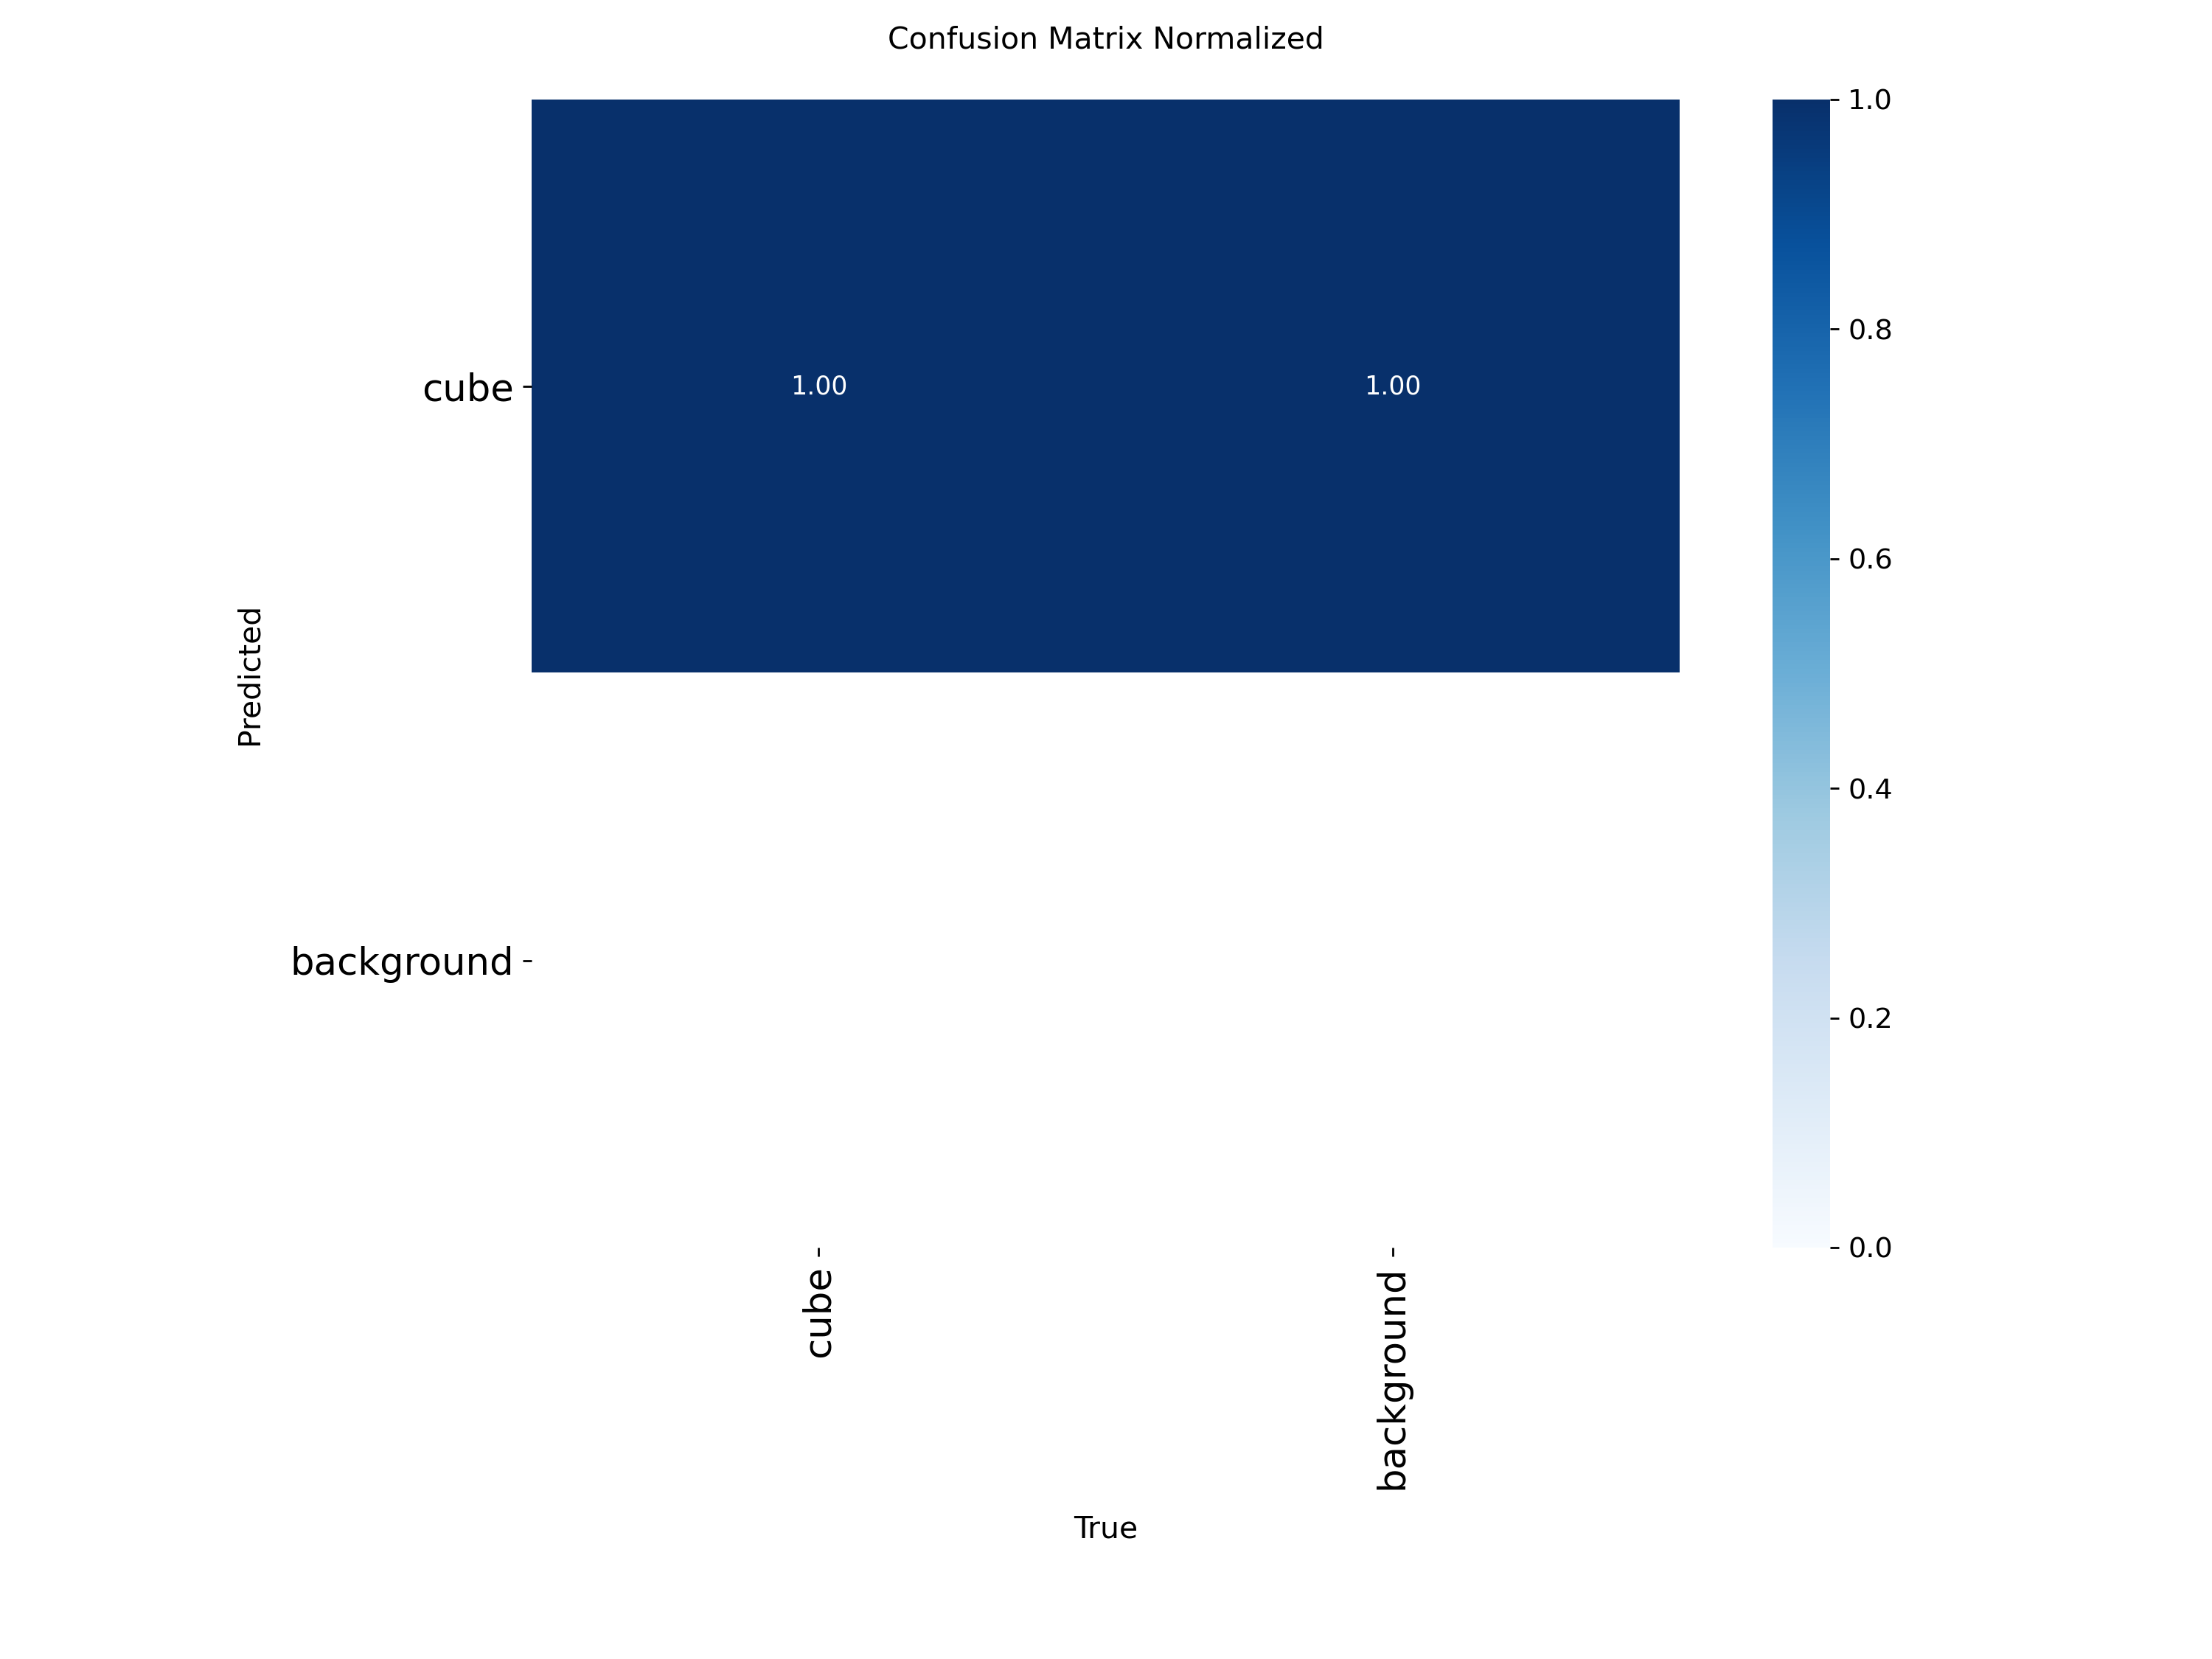
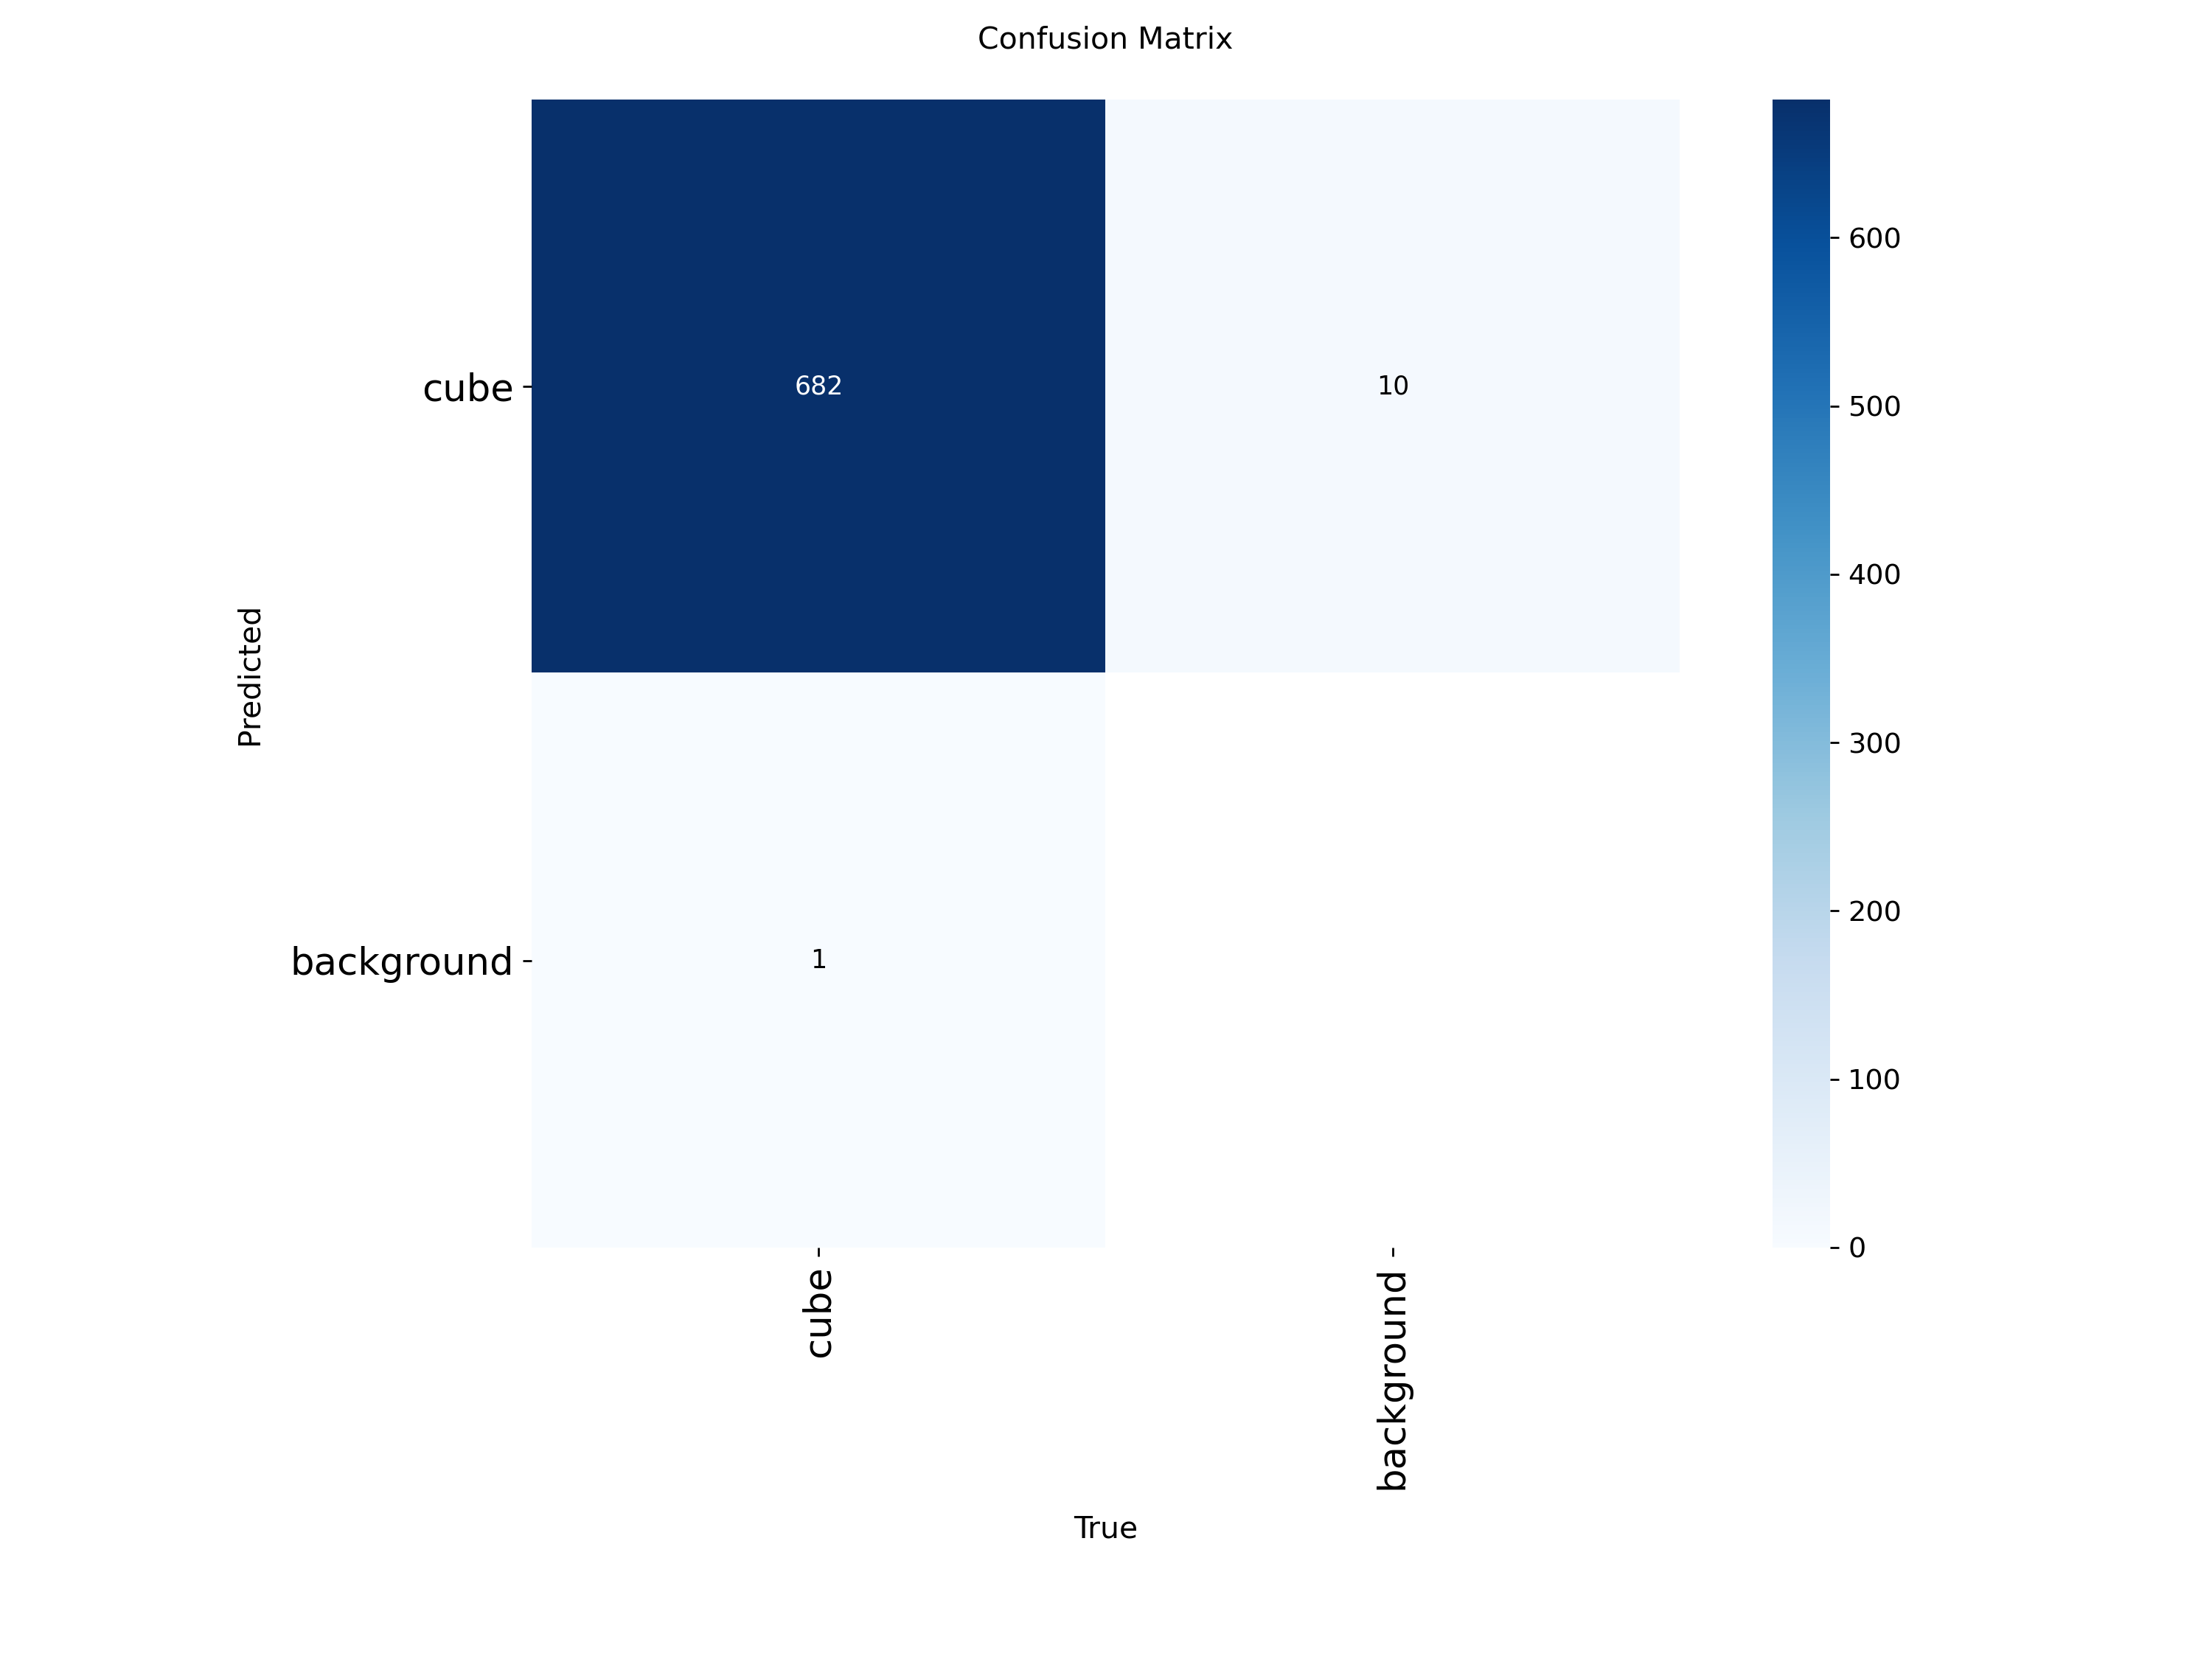
Use raw YOLO confusion matrix in portfolio

diff --git a/index.html b/index.html
@@ -63,7 +63,7 @@
         </div>
         <div class="evidence-grid">
           <figure class="media-frame"><img src="assets/tensorboard_reward.svg" alt="TensorBoard reward curve for PPO curriculum training" /><figcaption>TensorBoard reward evidence from PPO curriculum training. The reward trend shows the policy learning to complete sorting decisions across increasingly difficult scene stages.</figcaption></figure>
-          <figure class="media-frame"><img src="assets/yolo_confusion_matrix.png" alt="YOLO validation confusion matrix" /><figcaption>YOLO validation confusion matrix from the cube detector. The model is trained as a CNN-based object detector to recognise cube targets in clutter while rejecting non-cube distractors.</figcaption></figure>
+          <figure class="media-frame"><img src="assets/yolo_confusion_matrix.png" alt="YOLO validation confusion matrix" /><figcaption>YOLO validation confusion matrix from the cube detector, shown as raw counts rather than normalized percentages. The model is trained as a CNN-based object detector to recognise cube targets in clutter while rejecting non-cube distractors.</figcaption></figure>
         </div>
       </section>
       <section class="section band" id="implementation">